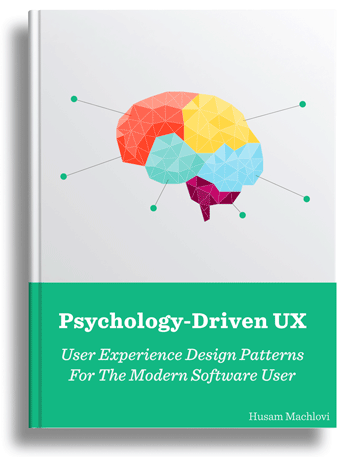
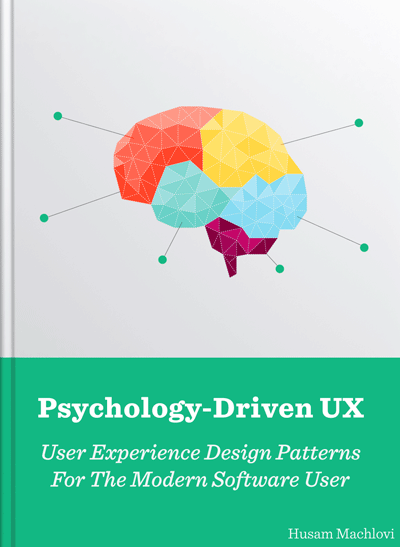
asset, style updates - book template'

diff --git a/client/stylesheets/themes/dark.scss b/client/stylesheets/themes/dark.scss
@@ -79,6 +79,11 @@
   }
 
   .book {
+    .intro {
+        img {
+        box-shadow: $space-mini $space-mini $space-base $gray-light;
+      }
+    }
     .module.mailchimp {
       background: $dark;
     }

diff --git a/client/stylesheets/modules/books/books.scss b/client/stylesheets/modules/books/books.scss
@@ -7,6 +7,7 @@
     border-bottom: none;
     img {
       width: 100%;
+      box-shadow: $space-mini $space-mini $space-base $gray;
     }
   }
   .module.mailchimp {
